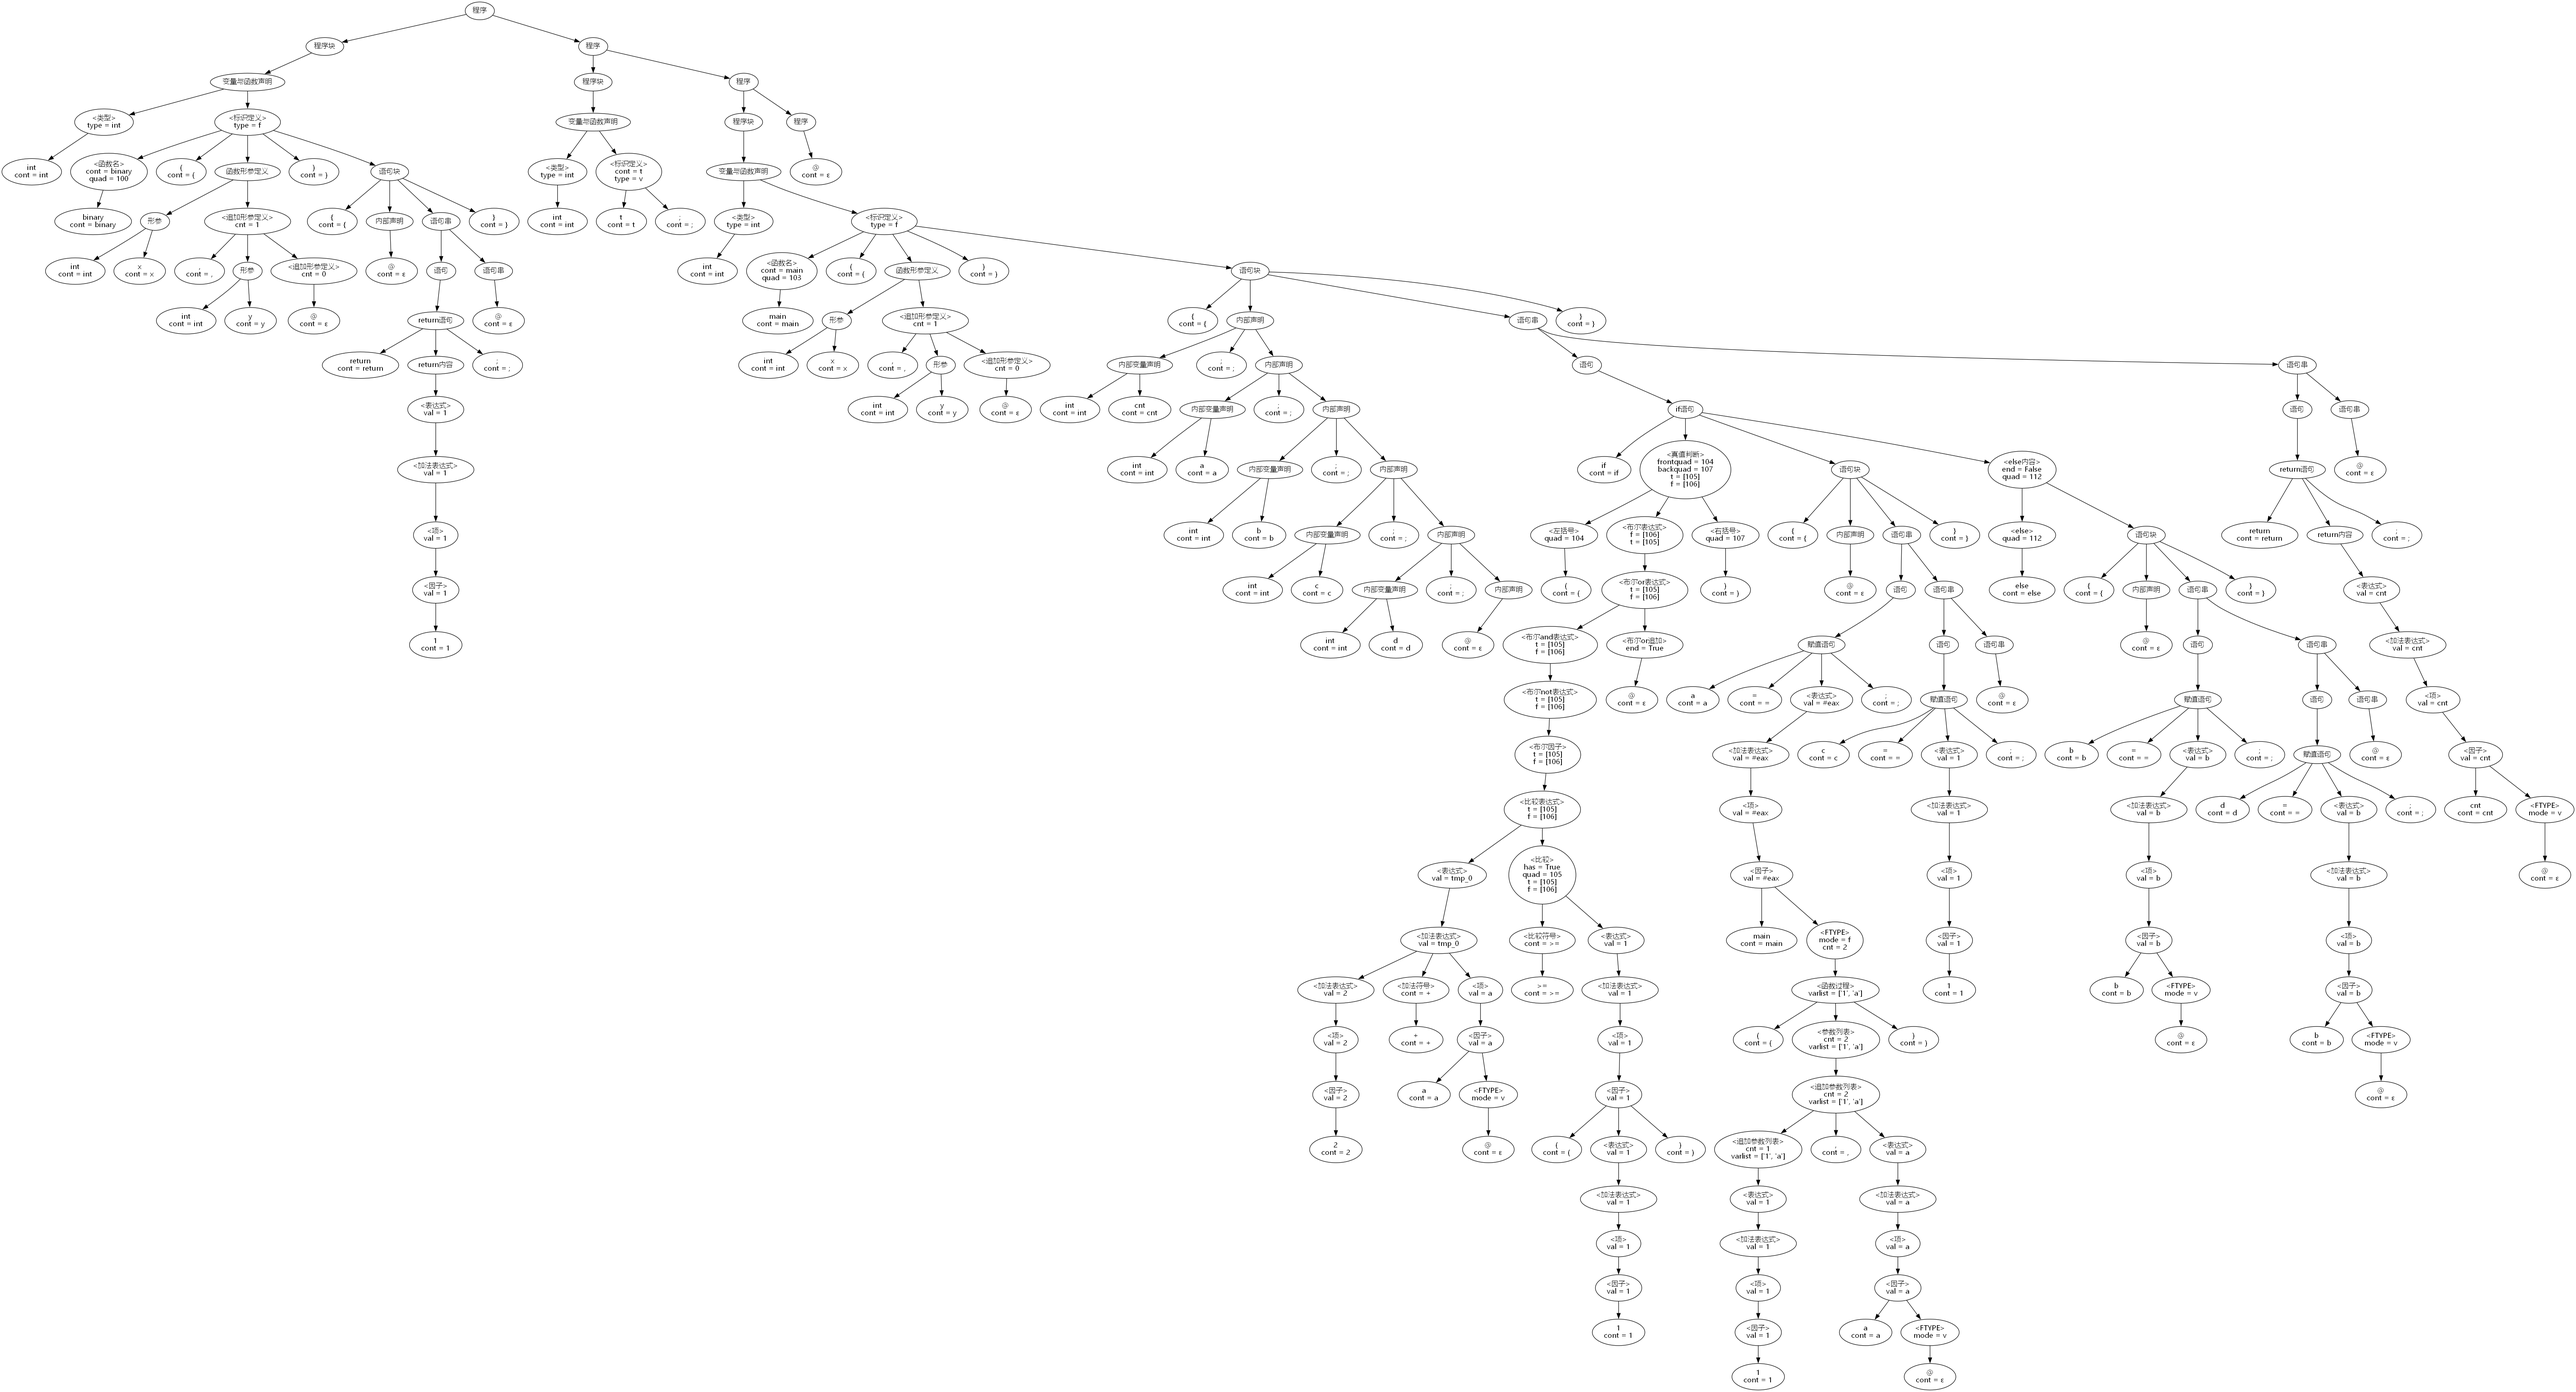
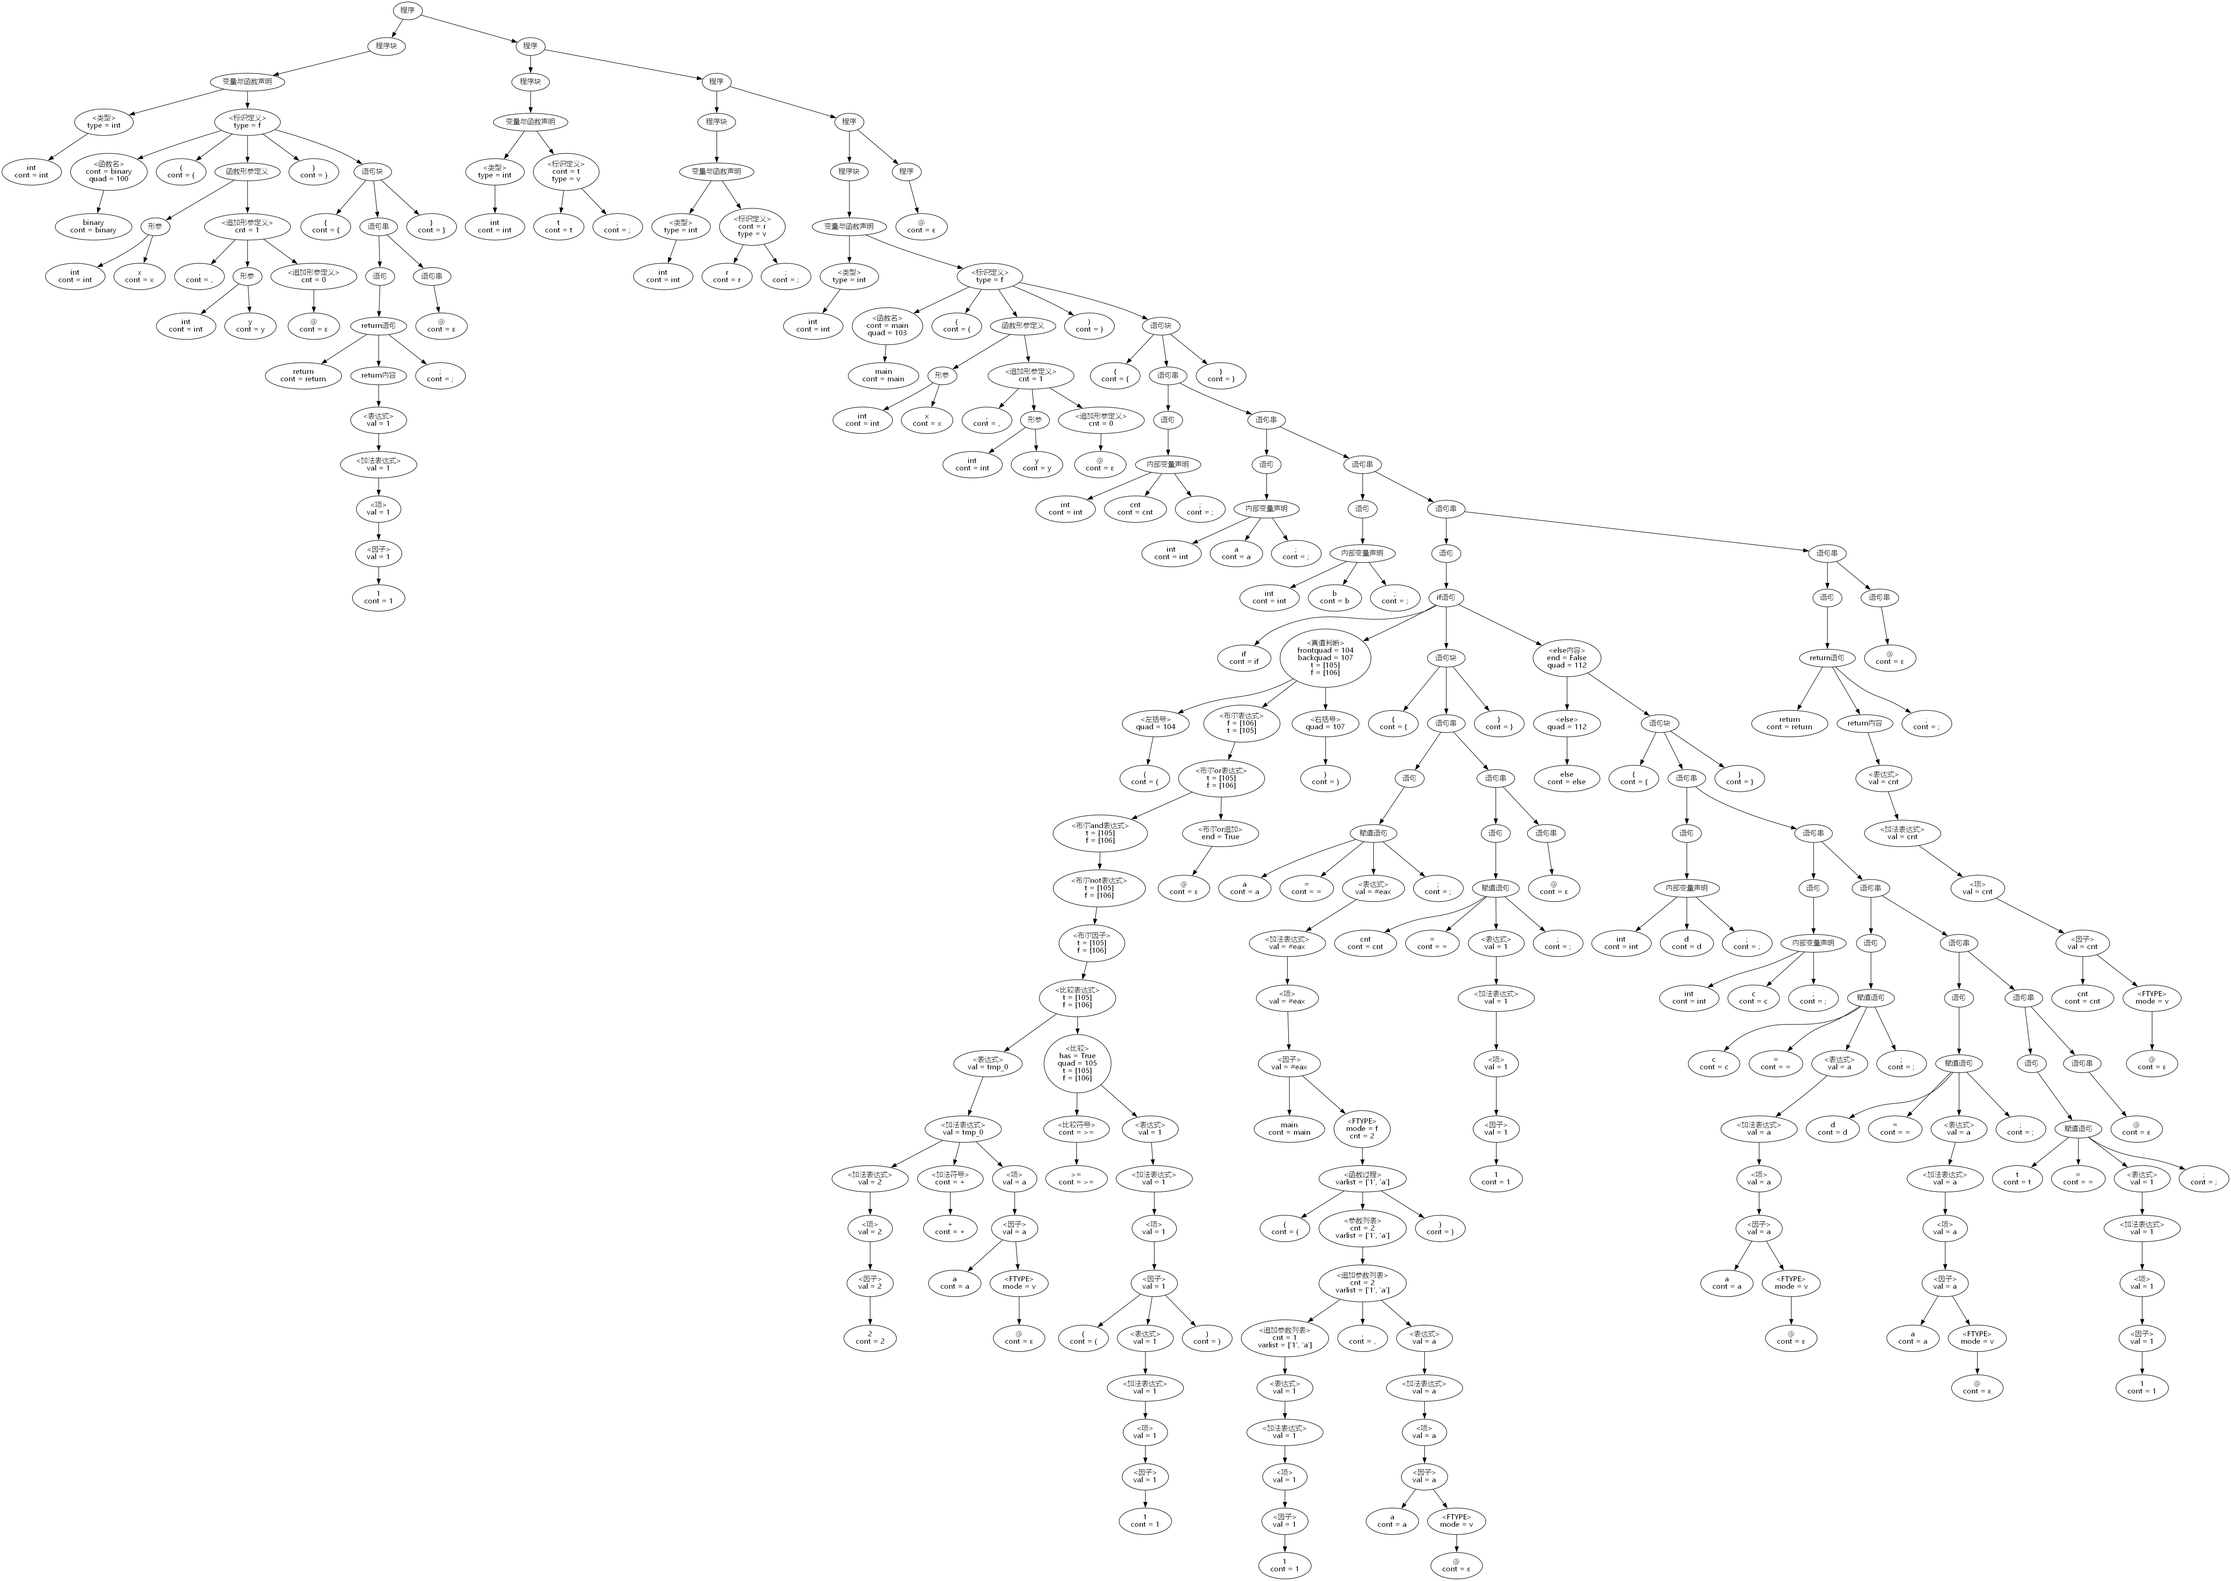
修正全部变量报错问题

diff --git a/analyser.py b/analyser.py
@@ -11,13 +11,13 @@ def checkFuncNotDefined(name, node):
     if name in ldict['func']:
         raise Exception('\033[1;31;31m[Error]#302 in line {}, position {}: Function name <{}> has already defined.\n{}'.format(*node['debug_pos'], name, getErrorCodeLine(*node['debug_pos'], node['cont'])))
 
-def checkVarDefined(name, node):
-    var_list = [x[0] for x in ldict['var']]
+def checkVarDefined(name,func,node):
+    var_list = [x[0] for x in ldict['var'] if x[2] == '$global' or x[2] == func]
     if name not in var_list:
         raise Exception('\033[1;31;31m[Error]#303 in line {}, position {}: Variable name <{}> not defined.\n{}'.format(*node['debug_pos'], name, getErrorCodeLine(*node['debug_pos'], node['cont'])))
 
-def checkVarNotDefined(name, node):
-    var_list = [x[0] for x in ldict['var']]
+def checkVarNotDefined(name,func,node):
+    var_list = [x[0] for x in ldict['var'] if x[2] == func]
     if name in var_list:
         raise Exception('\033[1;31;31m[Error]#304 in line {}, position {}: Variable name <{}> has already defined.\n{}'.format(*node['debug_pos'], name, getErrorCodeLine(*node['debug_pos'], node['cont'])))
 

diff --git a/main.py b/main.py
@@ -14,7 +14,7 @@ if __name__ == '__main__':
                 print('中间代码已输出到同级文件夹下..')
                 if(args.tree): 
                     drawSyntaxTree()
-                    print('中间代码为:', mid_code)
+                    #print('中间代码为:', mid_code)
     except FileNotFoundError as err:
         print('\033[1;31;31m[Error]#101\033[0m')
     if(args.debug): input("输入回车继续...")

diff --git a/input.c b/input.c
@@ -7,15 +7,19 @@ int t;
 int main(int x, int y){
     int cnt;
     int a;
+    
     int b;
-    int c;
-    int d;
     if(2+a>=(1)){
         a = main(1,a);
-        c = 1;
+        cnt = 1;
     } else {
-        b = b;
-        d = b;
+        int d;
+        int c;
+        c = a;
+        d = a;
+        t = 1;
     }
     return cnt;
 }
+
+int t;
